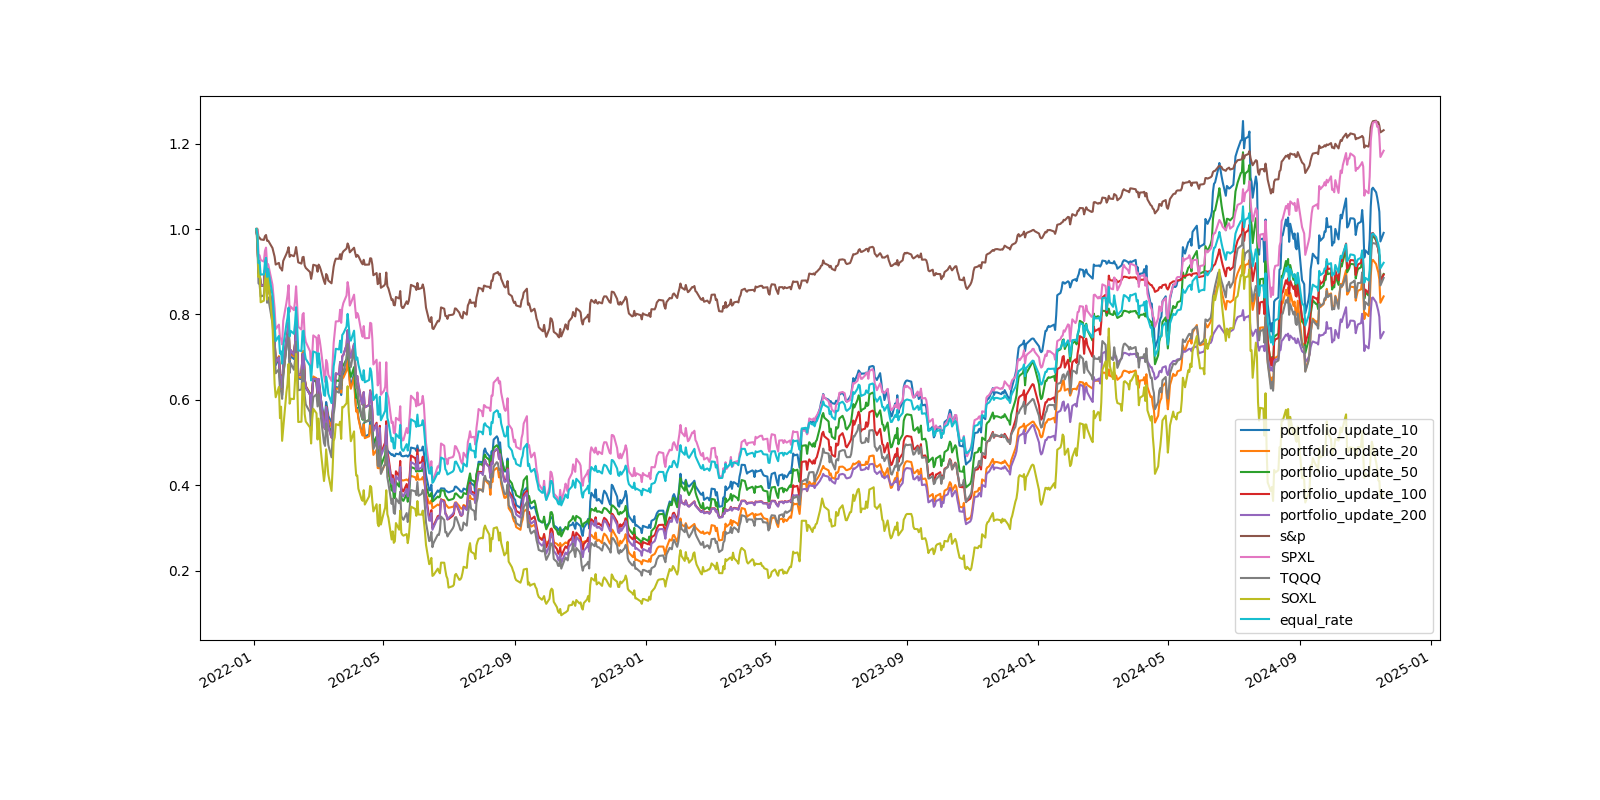
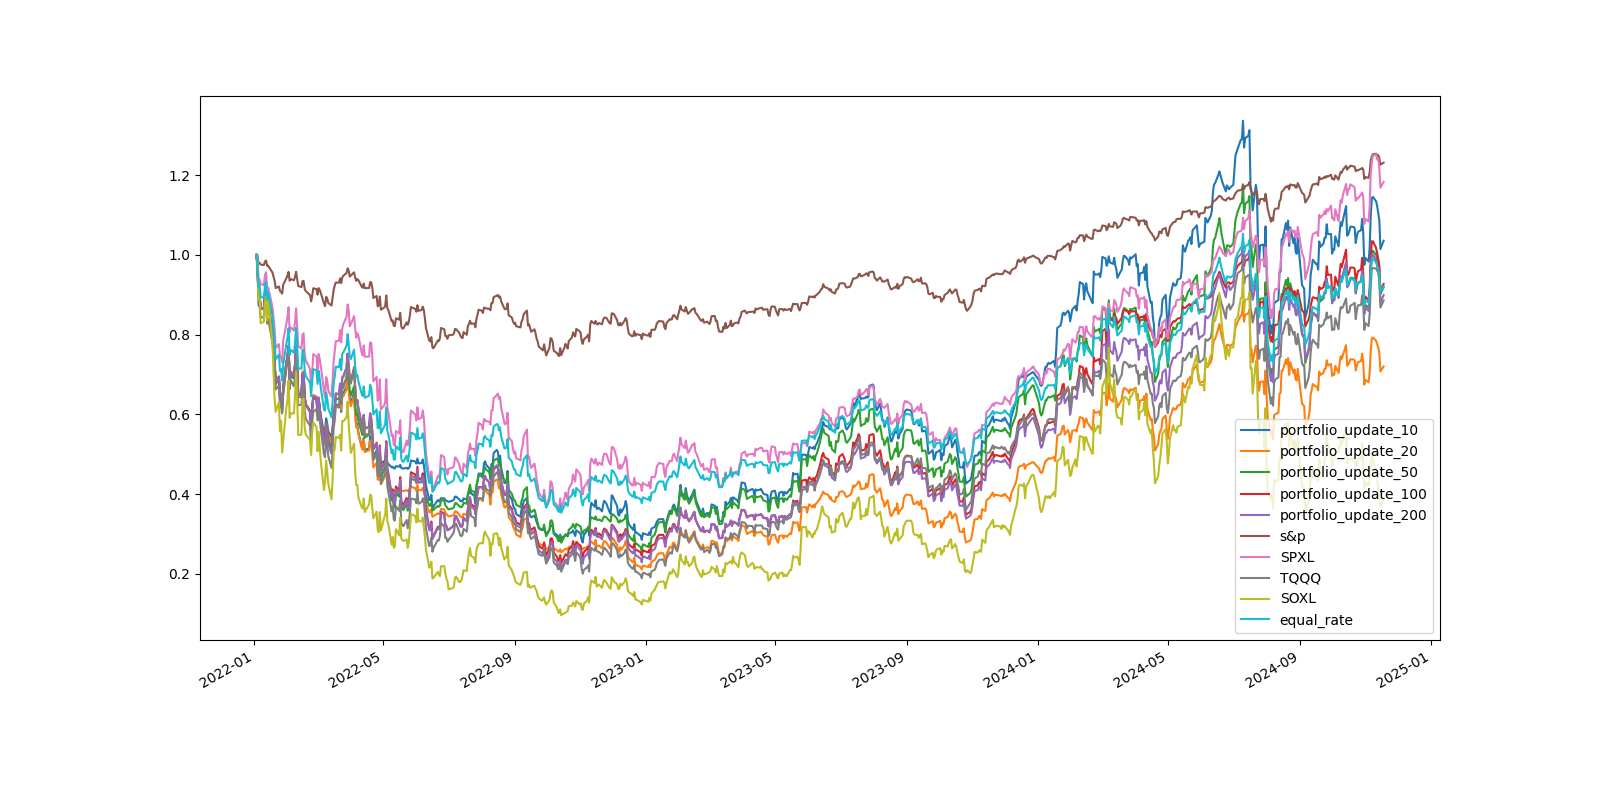
20, 50, 100, 200 moving averages instead of 100 only

Changed region(s): [[0.1562, 0.1562, 0.875, 0.75], [0.0938, 0.5938, 0.125, 0.625], [0.0938, 0.5, 0.125, 0.5312]]

diff --git a/utils.py b/utils.py
@@ -1089,17 +1089,25 @@ def need_to_update_portfolio(date: datetime.date, rebalacing_period: int):
 def compute_win_rate_by_ratio_density_function(
     yf_df: pd.DataFrame, ticker: str
 ) -> float:
-    df_mean = yf_df["Close"][ticker].to_frame("price_ratio")
-    df_mean["price_ratio"] /= df_mean["price_ratio"].rolling(window=100).mean()
-    df_mean.dropna(inplace=True)
+    list_win_rate = []
+    for window in [20, 50, 100, 200]:
+        df_mean = yf_df["Close"][ticker].to_frame("price_ratio")
+        df_mean["price_ratio"] /= df_mean["price_ratio"].rolling(window=window).mean()
+        df_mean.dropna(inplace=True)
 
-    p = density_function(list(df_mean["price_ratio"]))
+        p = density_function(list(df_mean["price_ratio"]))
 
-    return win_rate_given_density_function(p, df_mean["price_ratio"].iloc[-1])
+        list_win_rate.append(
+            win_rate_given_density_function(p, df_mean["price_ratio"].iloc[-1])
+        )
+
+    return np.mean(list_win_rate)
 
 
 def compute_win_rates_assets(
-    start_date: str, end_date: str = None, key: str = "Close", ma_window: int = 100
+    start_date: str,
+    end_date: str = None,
+    key: str = "Close",
 ):
     if end_date is None:
         start_date, end_date = period(start_date)
@@ -1109,17 +1117,21 @@ def compute_win_rates_assets(
 
     win_rates = {}
     for ticker in tickers:
-        df_mean = df[key][ticker].to_frame("price_ratio")
-        df_mean["price_ratio"] /= (
-            df_mean["price_ratio"].rolling(window=ma_window).mean()
-        )
-        df_mean.dropna(inplace=True)
+        list_win_rate = []
+        for window in [20, 50, 100, 200]:
+            df_mean = df[key][ticker].to_frame("price_ratio")
+            df_mean["price_ratio"] /= (
+                df_mean["price_ratio"].rolling(window=window).mean()
+            )
+            df_mean.dropna(inplace=True)
 
-        p = density_function(list(df_mean["price_ratio"]))
+            p = density_function(list(df_mean["price_ratio"]))
 
-        win_rates[ticker] = win_rate_given_density_function(
-            p, df_mean["price_ratio"].iloc[-1]
-        )
+            list_win_rate.append(
+                win_rate_given_density_function(p, df_mean["price_ratio"].iloc[-1])
+            )
+
+        win_rates[ticker] = np.mean(list_win_rate)
 
     return win_rates
 
@@ -2158,21 +2170,15 @@ def plot_price_divided_by_ma(
         df = download([ticker], start_date, end_date)
         df.dropna(inplace=True)
 
-        list_date = df.index[300::10]
-        date2frames = defaultdict(list)
+        frames = []
         for window in range(1, 300):
             df_mean = df[key][ticker].to_frame()
             df_mean[ticker] /= df_mean[ticker].rolling(window=window).mean()
             df_mean.dropna(inplace=True)
 
-            for date in list_date:
-                date2frames[date].append(df_mean[df_mean.index==date][ticker].iloc[0])
-
-        frames = []
-        for date in date2frames:
             plt.close()
             fig, ax = plt.subplots(figsize=(16, 8))
-            plt.plot(date2frames[date])
+            df_mean.plot(ax=ax)
             ax.set_ylim(0, 2)
 
             buf = BytesIO()
@@ -2181,29 +2187,7 @@ def plot_price_divided_by_ma(
             buf.seek(0)
             image = Image.open(buf)
             frames.append(image)
-        print("start")
+
         imageio.mimsave(
-            f"figures/price_divided_curve_by_ma_{ticker}.gif", frames, duration=0.2
+            f"figures/price_divided_by_ma_{ticker}.gif", frames, duration=0.2
         )
-
-        # frames = []
-        # for window in range(1, 300):
-        #     df_mean = df[key][ticker].to_frame()
-        #     df_mean[ticker] /= df_mean[ticker].rolling(window=window).mean()
-        #     df_mean.dropna(inplace=True)
-
-            # plt.close()
-            # fig, ax = plt.subplots(figsize=(16, 8))
-            # df_mean.plot(ax=ax)
-            # ax.set_ylim(0, 2)
-
-            # buf = BytesIO()
-            # plt.savefig(buf, format="png")
-            # plt.close()
-            # buf.seek(0)
-            # image = Image.open(buf)
-            # frames.append(image)
-
-        # imageio.mimsave(
-        #     f"figures/price_divided_by_ma_{ticker}.gif", frames, duration=0.2
-        # )

diff --git a/plot.py b/plot.py
@@ -50,23 +50,24 @@ if __name__ == "__main__":
     # plot_return_etf(start_date="2000-01-01")
     # plot_SP500_JOLT(start_date="1900-01-01")
 
-    ###################
-    # plot every week #
-    ###################
-    plot_return_leverage_with_ma(start_date="2012-01-01")
-    plot_return_volume_leverage_with_ma(
-        start_date="2012-01-01"
-    )  # find bottom by volume
-    plot_predict_fourier(
-        regression_start_date="1900-04-01",
-    )
-    plot_predict_hmm(
-        regression_start_date="1900-04-01",
-    )
-    plot_nasdaq_divided_by_gdp(start_date="1900-01-01")
-    plot_nasdaq_divided_by_m2(start_date="1900-01-01")
-    plot_sandp_divided_by_m2(start_date="1900-01-01")
-    plot_lppls(start_date="1900-01-01")
+    # ###################
+    # # plot every week #
+    # ###################
+    # plot_return_leverage_with_ma(start_date="2012-01-01")
+    # plot_return_volume_leverage_with_ma(
+    #     start_date="2012-01-01"
+    # )  # find bottom by volume
+    # plot_predict_fourier(
+    #     regression_start_date="1900-04-01",
+    # )
+    # plot_predict_hmm(
+    #     regression_start_date="1900-04-01",
+    # )
+    # plot_nasdaq_divided_by_gdp(start_date="1900-01-01")
+    # plot_nasdaq_divided_by_m2(start_date="1900-01-01")
+    # plot_sandp_divided_by_m2(start_date="1900-01-01")
+    # exit(1)
+    # plot_lppls(start_date="1900-01-01")
 
     ############
     # backtest #

diff --git a/portfolio.py b/portfolio.py
@@ -6,7 +6,7 @@ from utils import (
 
 if __name__ == "__main__":
     print("win rate: ", compute_win_rates_assets("1900-01-01"))
-    write_new_portfolio(rebalacing_period=10, path_savefile="portfolio.json")
+    # write_new_portfolio(rebalacing_period=10, path_savefile="portfolio.json")
     # print(
     #     compute_budge(total_budget=70_000_000 / 1400, path_portfolio="portfolio.json")
     # )
